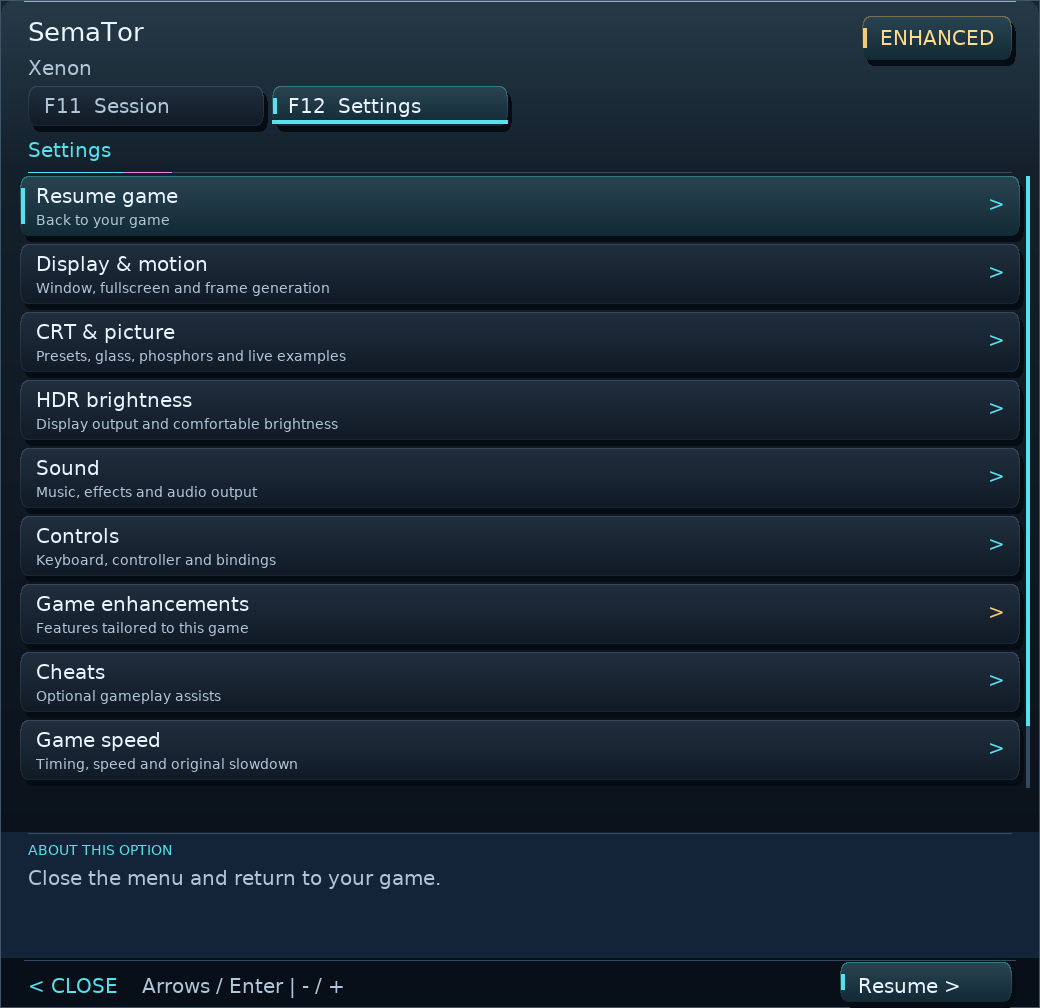
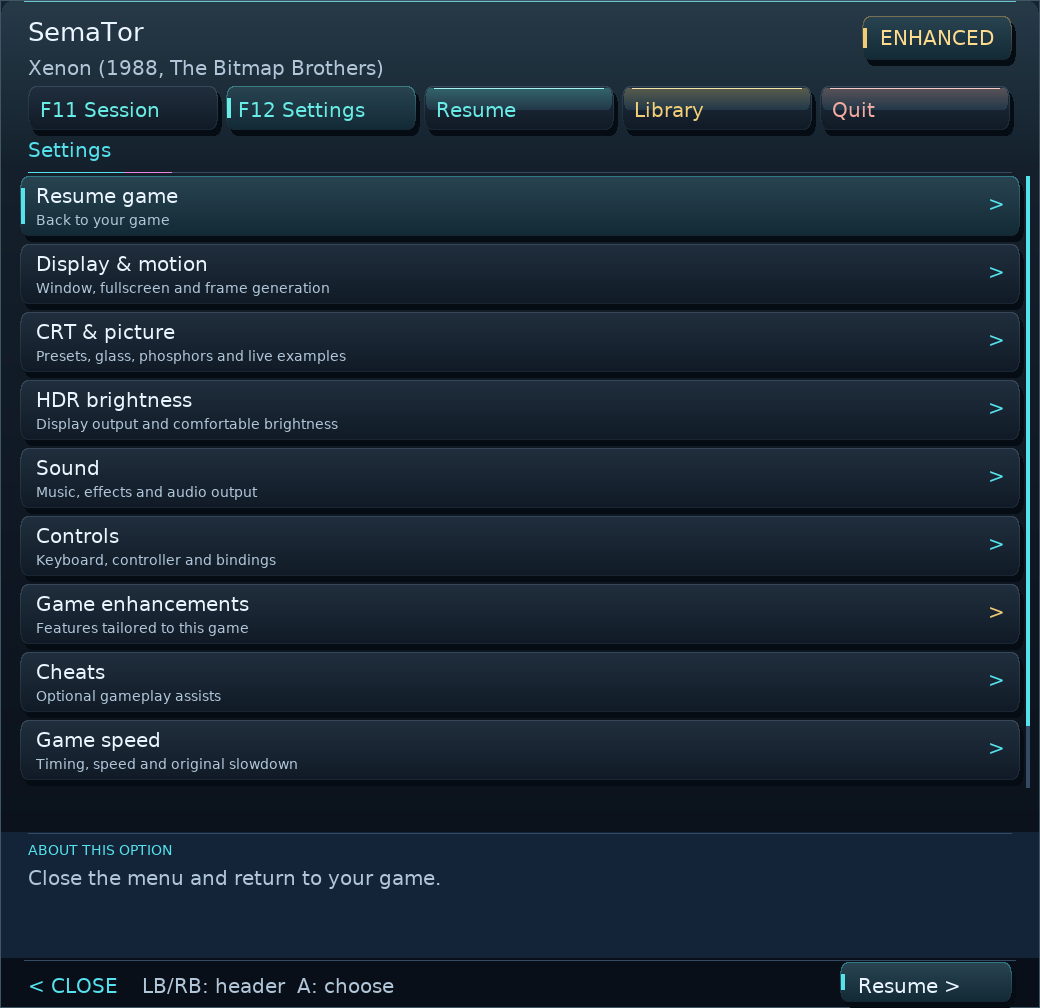
Add files via upload

Changed region(s): [[0.0308, 0.0615, 0.9846, 0.1538], [0.1231, 0.9534, 0.3692, 0.9841]]

diff --git a/docs/index.html b/docs/index.html
@@ -17,22 +17,22 @@
 <nav class="wrap" aria-label="Main"><a class="brand" href="#"><img src="readme/logo.png" width="42" height="42" alt="">SEMATOR</a><div class="navlinks"><a href="#experience">Experience</a><a href="#download">Download</a><a href="https://discord.gg/DdHfSGrdFc">Community</a><a href="https://github.com/SirBaron/SemaTor/issues">Support</a></div></nav>
 <main id="main">
 <header class="hero"><div class="wrap">
-<div class="eyebrow">Atari ST translation layer · 1.1.217 public preview</div>
+<div class="eyebrow">Atari ST translation layer · 1.1.221 public preview</div>
 <h1>Your Atari ST library.<br><em>A new way to play.</em></h1>
 <p class="intro">Rediscover the games you know. A library that feels at home, enhanced possibilities, and a picture you can make your own.</p>
 <p class="fine">Created by David Baron with AI assistance in development, research, documentation and this website.</p>
 <div class="actions"><a class="button" href="#download">Get SemaTor <span aria-hidden="true">↗</span></a><a class="button secondary" href="https://www.youtube.com/@SemaTorST">See it in action</a></div>
 <p class="fine">Linux & Windows · No TOS ROM required · Bring your own disks</p>
-<figure class="screen"><div class="screenbar"><span>YOUR COLLECTION, FRONT AND CENTRE</span><span>ST LIBRARY</span></div><a href="readme/desktop-library.png"><img src="readme/desktop-library.png" width="1848" height="1040" fetchpriority="high" alt="Current SemaTor desktop library, with gold Enhanced badges, folders and artwork controls"></a><figcaption>Actual 1.1.217 desktop UI with sample titles and placeholder covers. No games are bundled.</figcaption></figure>
+<figure class="screen"><div class="screenbar"><span>YOUR COLLECTION, FRONT AND CENTRE</span><span>ST LIBRARY</span></div><a href="readme/desktop-library.png"><img src="readme/desktop-library.png" width="1848" height="1040" fetchpriority="high" alt="Current SemaTor desktop library, with gold Enhanced badges, folders and artwork controls"></a><figcaption>Current desktop UI with sample titles and placeholder covers. No games are bundled.</figcaption></figure>
 <div class="strip"><span><strong>A collection worth browsing.</strong> Covers, lists & favourites</span><span><strong>A look worth tuning.</strong> CRT & picture controls</span><span><strong>A session worth keeping.</strong> Saves & rewind</span></div>
 </div></header>
 <section class="wrap" id="experience"><div class="eyebrow">Familiar games. Fresh possibilities.</div><h2>More than pressing play.</h2><p class="lead">SemaTor runs your 68000 game code and provides the ST hardware and operating-system interfaces it needs. Supported titles can go further with native enhancements.</p>
 <div class="cards"><article class="card gold"><span class="badge">ENHANCED</span><h3>The classics, with extras.</h3><p>Find supported titles at a glance. Explore per-game improvements, sound options and gameplay assists. Features depend on the title and disk edition.</p></article><article class="card"><div class="number">01 / PICTURE</div><h3>Dial in your nostalgia.</h3><p>Keep pixels crisp, choose a simple filter, or tune the CRT look with presets, phosphors and a bezel. Make the screen feel right to you.</p></article><article class="card"><div class="number">02 / MOTION</div><h3>Find your flow.</h3><p>Try optional frame generation for smoother motion, or stay with original frames. Availability and results depend on your GPU, backend and driver.</p></article></div>
 </section>
 <section class="wrap" id="gallery"><div class="eyebrow">Built around your collection</div><h2>Less rummaging. More playing.</h2><p class="lead">Choose game folders and custom covers with a file browser. Fetch artwork for a game or your whole library. Jump into a session, then keep the controls close.</p>
-<div class="gallery"><figure class="capture"><a href="readme/session-overview.png"><img loading="lazy" src="readme/session-overview.png" alt="SemaTor F11 session controls" width="1040" height="1008"></a><figcaption><strong>F11 · Your session.</strong> Four manual save slots, plus rewind and session features where supported.</figcaption></figure><figure class="capture"><a href="readme/settings-overview.png"><img loading="lazy" src="readme/settings-overview.png" alt="SemaTor F12 settings with picture, sound and enhancement categories" width="1040" height="1008"></a><figcaption><strong>F12 · Your setup.</strong> Picture, motion, sound and game options in one place. Public-build UI shown with a sample game label.</figcaption></figure><figure class="capture wide"><a href="readme/desktop-ultrawide.png"><img loading="lazy" src="readme/desktop-ultrawide.png" alt="The desktop library on an ultrawide layout with sample entries" width="2464" height="1040"></a><figcaption><strong>Give your library some room.</strong> A wider display makes space for more of your collection.</figcaption></figure></div>
+<div class="gallery"><figure class="capture"><a href="readme/session-overview.png"><img loading="lazy" src="readme/session-overview.png" alt="SemaTor F11 session controls" width="1040" height="1008"></a><figcaption><strong>F11 · Your session.</strong> Shiny header buttons keep Resume, Library and Quit close by. Click, or use LB/RB then A. Sample game label shown.</figcaption></figure><figure class="capture"><a href="readme/settings-overview.png"><img loading="lazy" src="readme/settings-overview.png" alt="SemaTor F12 settings with picture, sound and enhancement categories" width="1040" height="1008"></a><figcaption><strong>F12 · Your setup.</strong> Picture, motion, sound and game options in one place. Optional ST Drive Sounds follow disk activity. Public-build UI shown with a sample game label.</figcaption></figure><figure class="capture wide"><a href="readme/desktop-ultrawide.png"><img loading="lazy" src="readme/desktop-ultrawide.png" alt="The desktop library on an ultrawide layout with sample entries" width="2464" height="1040"></a><figcaption><strong>Give your library some room.</strong> A wider display makes space for more of your collection. Settings → Refresh library rechecks your folders without restarting.</figcaption></figure></div>
 </section>
-<section class="wrap" id="download"><div class="downloads"><div class="eyebrow">1.1.217 · First public preview</div><h2>Your next ST session starts here.</h2><p class="lead">Choose your desktop build. Extract the complete ZIP, add your own game disks, and make yourself at home.</p><div class="cards"><article class="card"><h3>Linux x86-64</h3><p>Run <code>sh install.sh</code> from the extracted folder. The default home is <code>~/Games/SemaTor</code>, with real files copied into place.</p><div class="actions"><a class="button" href="https://github.com/SirBaron/SemaTor/releases/download/v1.1.217/SemaTor-1_1_217-linux-public-preview.zip">Download for Linux</a></div><p class="fine">SDL2 runtime and Python 3 required. A double-click may open the script in your editor; the command above runs it.</p></article><article class="card"><h3>Windows x64</h3><p>Extract to a writable folder and launch <code>SemaTor.exe</code>. Keep <code>SDL2.dll</code> next to the application.</p><div class="actions"><a class="button" href="https://github.com/SirBaron/SemaTor/releases/download/v1.1.217/SemaTor-1_1_217-windows-public-preview.zip">Download for Windows</a></div><p class="fine">Built and checked automatically; broader real-machine testing is still needed. Compatibility reports welcome.</p></article></div><p class="smallprint">Keep your Games, Media and User folders when updating. No commercial game disk images or Atari TOS ROM are supplied. Compatibility varies by game and disk edition. Linux has received hands-on testing; this preview is an opportunity to help test more systems.</p><a href="https://github.com/SirBaron/SemaTor/releases">All releases & release notes →</a></div></section>
+<section class="wrap" id="download"><div class="downloads"><div class="eyebrow">1.1.221 · First public preview</div><h2>Your next ST session starts here.</h2><p class="lead">Choose your desktop build. Extract the complete ZIP, add your own game disks, and make yourself at home.</p><div class="cards"><article class="card"><h3>Linux x86-64</h3><p>Run <code>sh install.sh</code> from the extracted folder. The default home is <code>~/Games/SemaTor</code>, with real files copied into place.</p><div class="actions"><a class="button" href="https://github.com/SirBaron/SemaTor/releases/download/v1.1.221/SemaTor-1_1_221-linux-public-preview.zip">Download for Linux</a></div><p class="fine">SDL2 runtime and Python 3 required. A double-click may open the script in your editor; the command above runs it.</p></article><article class="card"><h3>Windows x64</h3><p>Extract to a writable folder and launch <code>SemaTor.exe</code>. Keep <code>SDL2.dll</code> next to the application.</p><div class="actions"><a class="button" href="https://github.com/SirBaron/SemaTor/releases/download/v1.1.221/SemaTor-1_1_221-windows-public-preview.zip">Download for Windows</a></div><p class="fine">Built and checked automatically; broader real-machine testing is still needed. Compatibility reports welcome.</p></article></div><p class="smallprint">Library Settings → Updates can download a signed desktop update and install it on restart, preserving your games, saves, settings and custom artwork. Install 1.1.219 or newer once to enable future in-app updates. No commercial game disk images or Atari TOS ROM are supplied. Compatibility varies by game and disk edition. Linux has received hands-on testing; this preview is an opportunity to help test more systems.</p><a href="https://github.com/SirBaron/SemaTor/releases">All releases & release notes →</a></div></section>
 <section class="wrap mobile"><div><div class="eyebrow">Also in development</div><h2>A smaller screen.<br>The same ambition.</h2><p class="lead">Phone and AYN Thor interfaces put the library and controls within reach. On a dual-screen handheld, the lower panel gives your session its own space.</p><p class="fine">Earlier development screenshots. Android and Thor are not included in this desktop public release; appearance may change.</p></div><div class="devices"><a href="readme/phone-library.png"><img loading="lazy" src="readme/phone-library.png" alt="Earlier phone library development preview" style="max-width:100%"></a><a href="readme/thor-deck.png"><img loading="lazy" src="readme/thor-deck.png" alt="Earlier AYN Thor lower-screen development preview" style="max-width:100%"></a></div></section>
 <section class="wrap community"><div class="eyebrow">Help shape what comes next</div><h2>Got a favourite? Put it through its paces.</h2><p class="lead">Tell us what works, what sounds wrong, or where the picture could be better. Include your version, system, game edition and steps to reproduce. An optional local report is available in F12 → Support & diagnostics.</p><div class="actions"><a class="button" href="https://discord.gg/DdHfSGrdFc">Join the Discord</a><a class="button secondary" href="https://github.com/SirBaron/SemaTor/issues">Report a game or bug</a><a class="button secondary" href="https://www.youtube.com/@SemaTorST">Watch on YouTube</a></div><p class="fine">Please don’t attach game disks or ROMs to reports.</p></section>
 </main>
